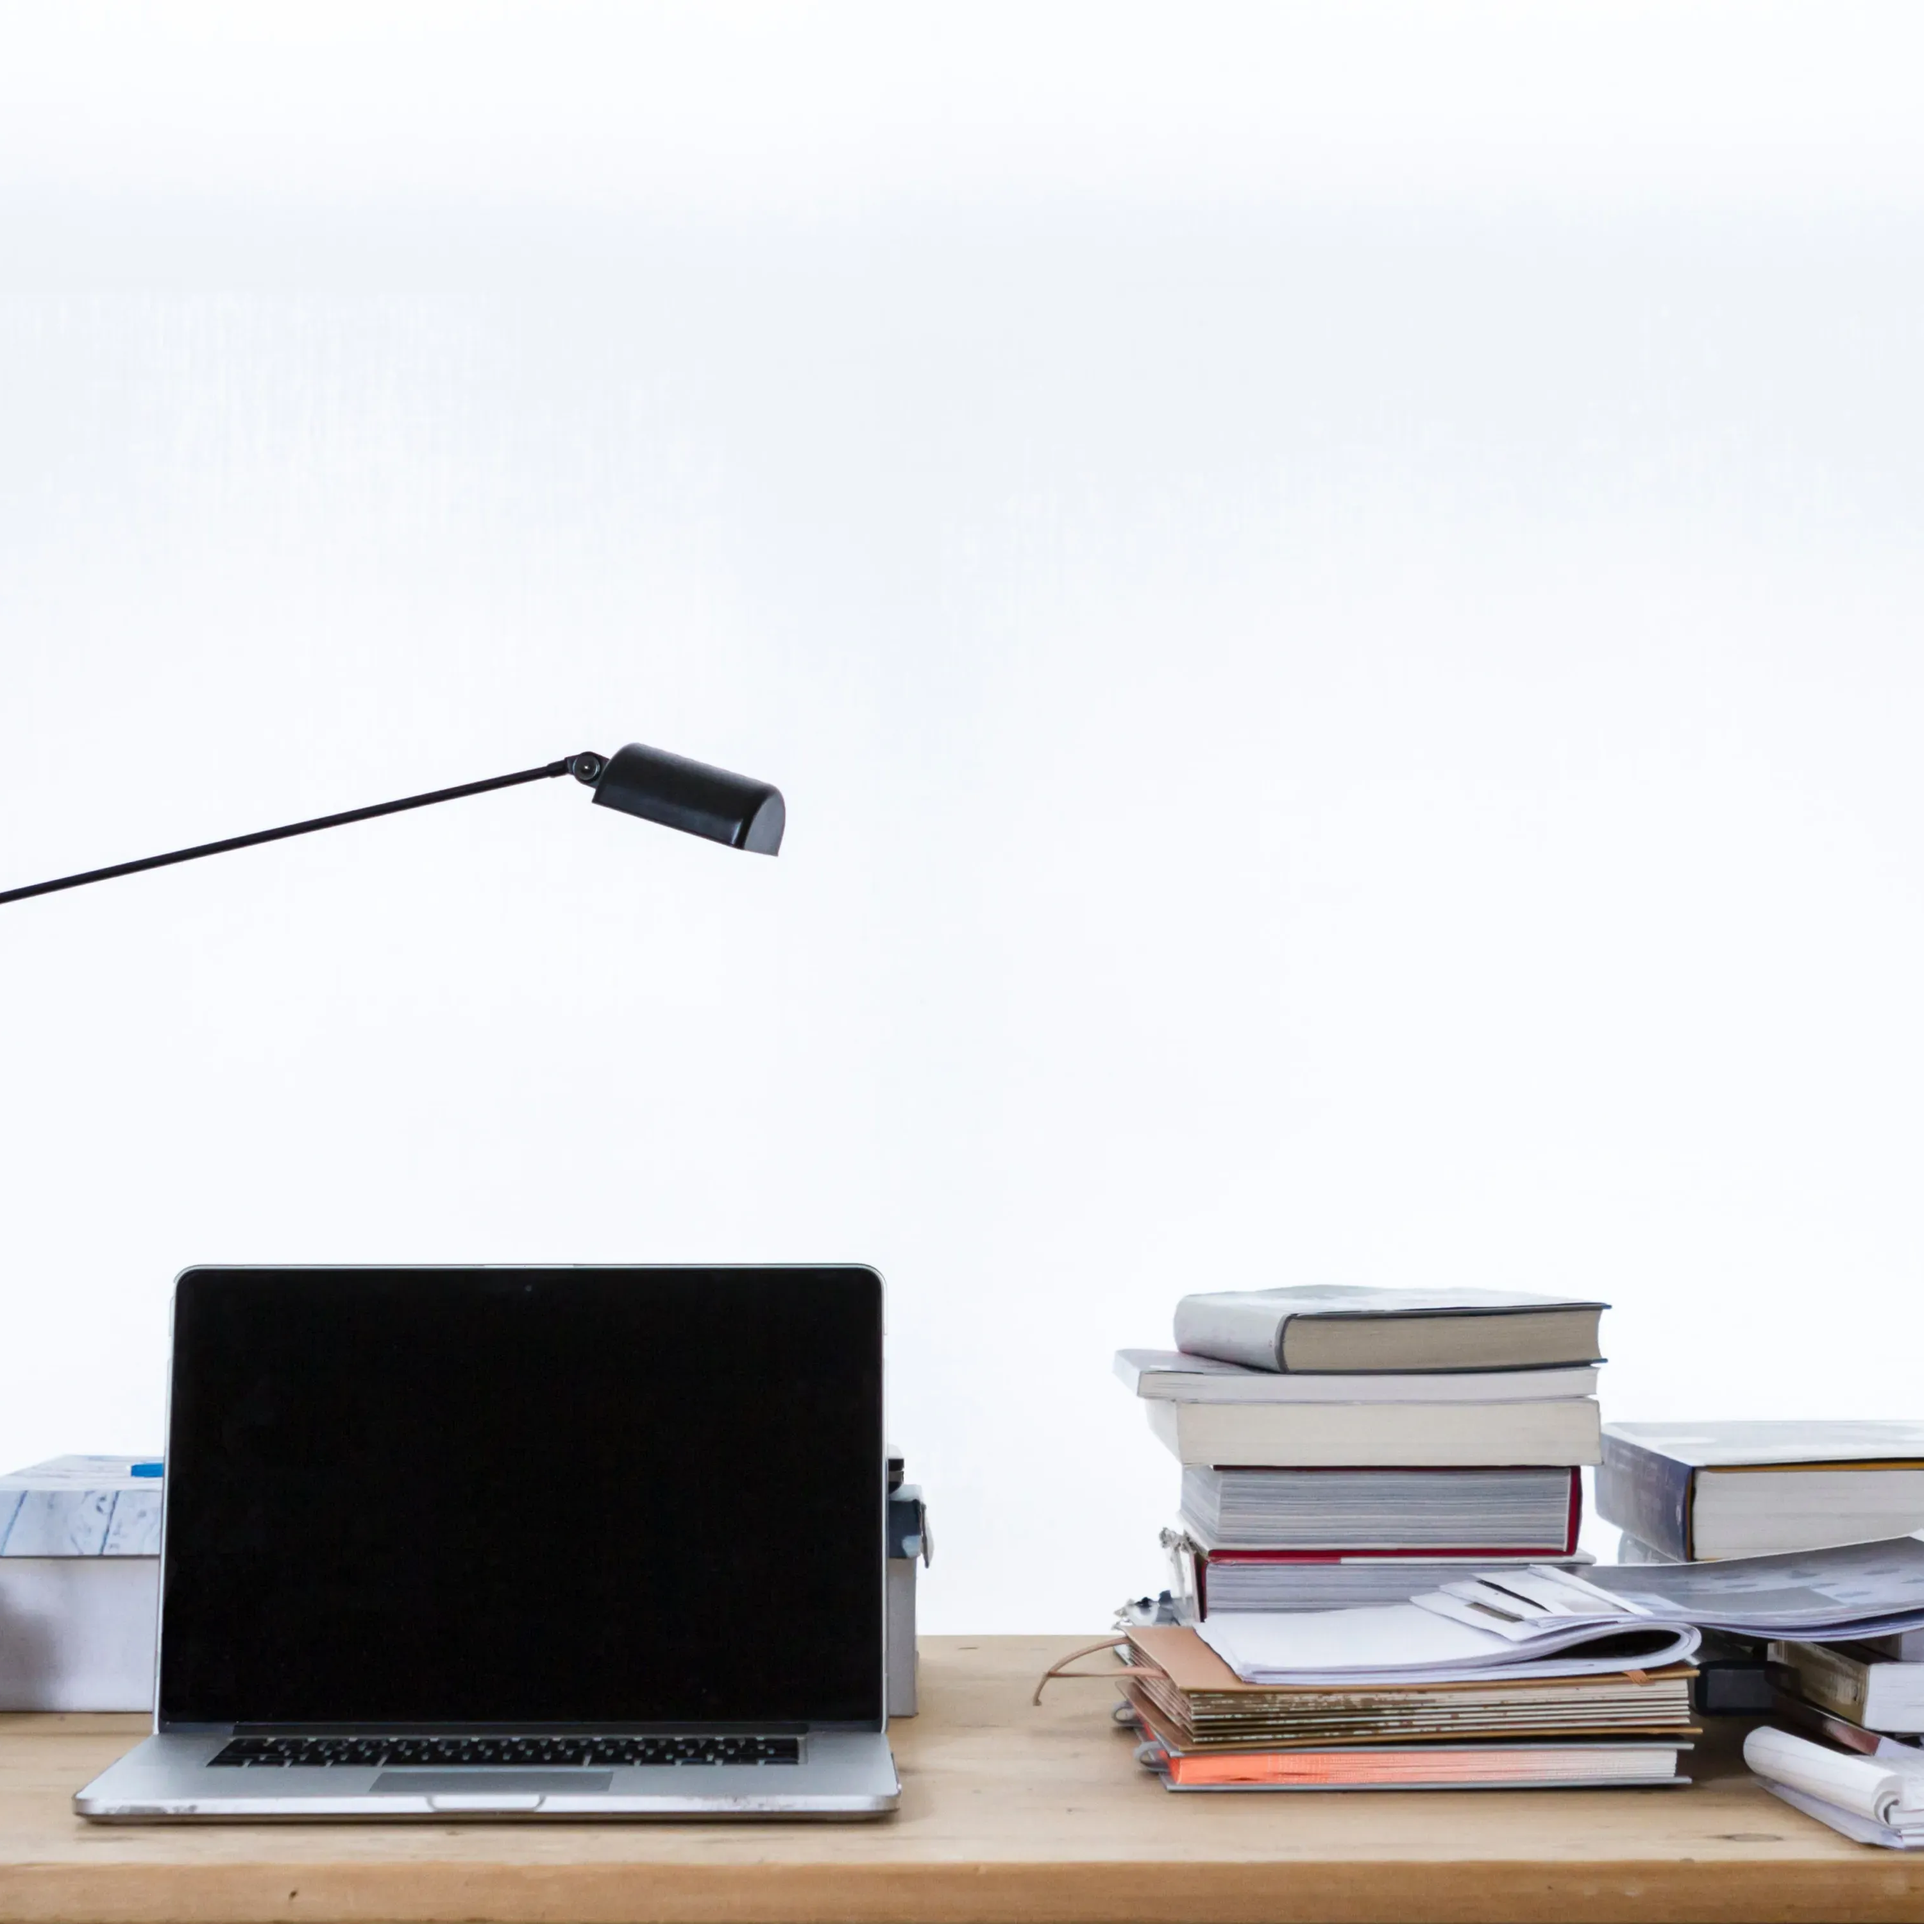
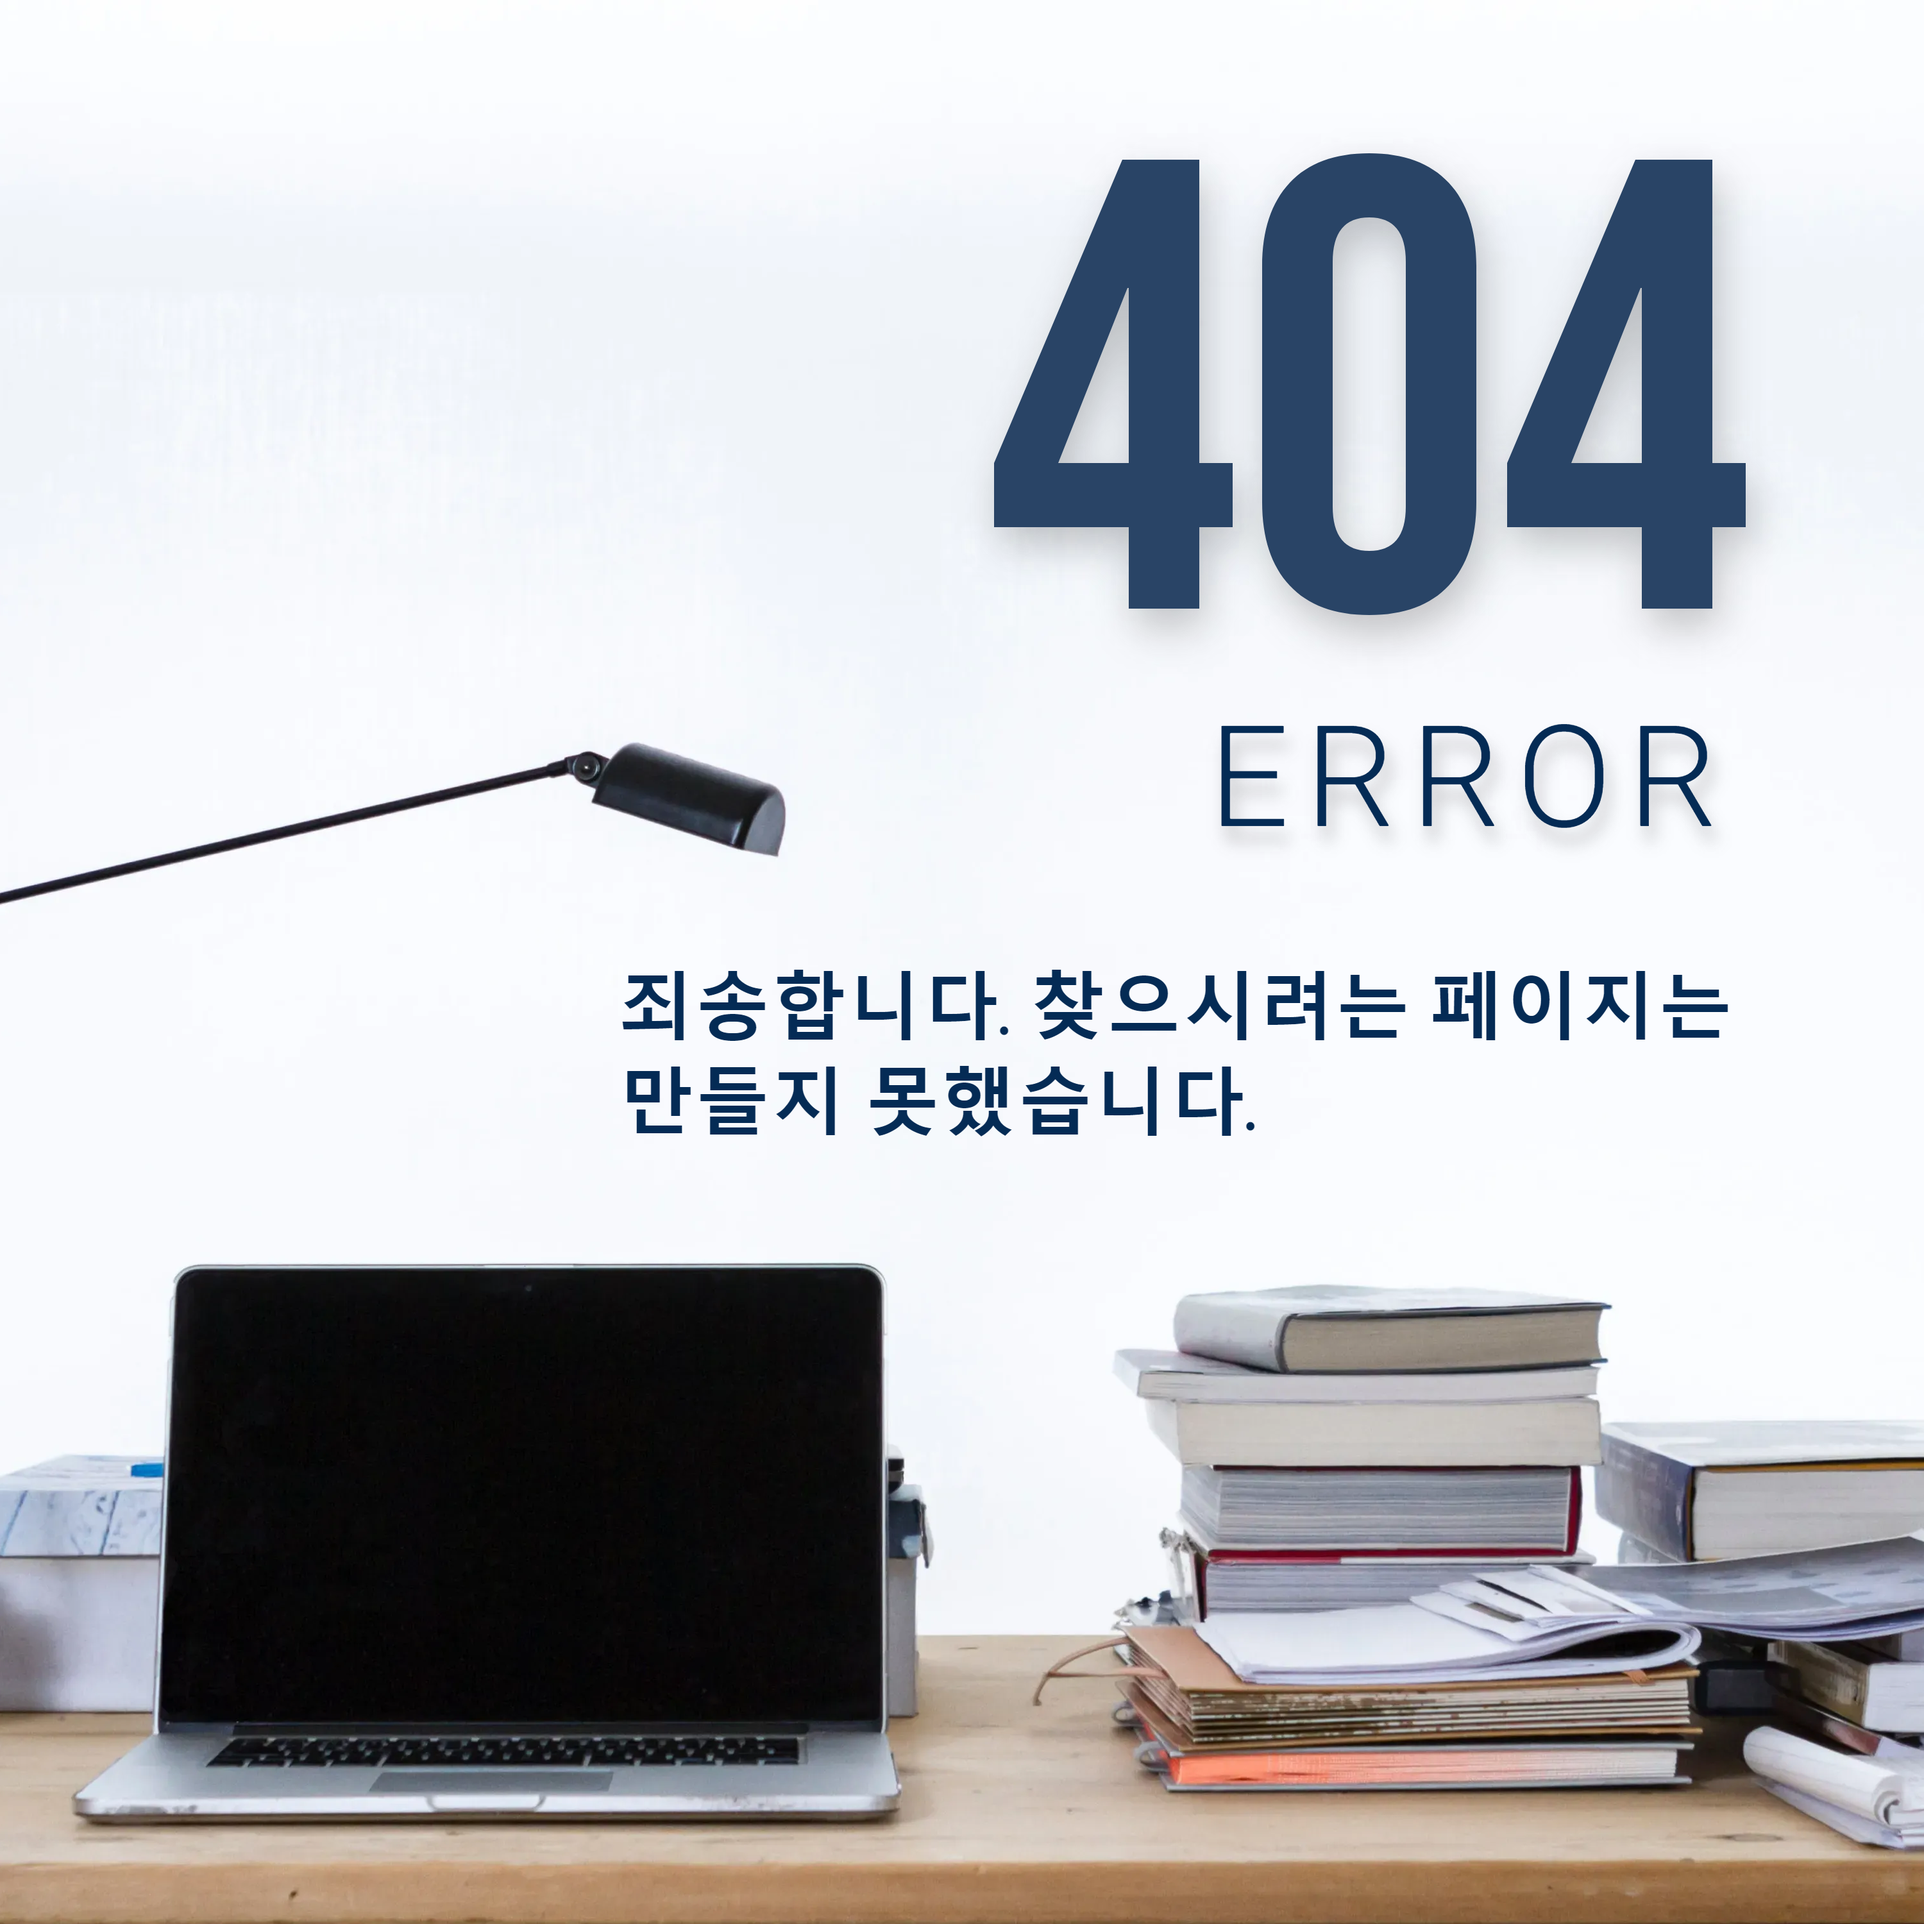
404페이지 수정

diff --git a/assets/css/404page.css b/assets/css/404page.css
@@ -12,7 +12,8 @@ body
 
 img {
   object-fit: fill; 
-
+  width: 100%;
+  height: 100%;
 
 }
 
@@ -24,8 +25,8 @@ img {
 
 .image-caption {
   position: absolute;
-  top: 50%;
-  left: 50%;
+  top: 55%;
+  left: 70%;
   transform: translate(-50%, -50%);
   color: white;
   font-size: 2rem;
@@ -35,4 +36,10 @@ img {
 
 .page__footer{
   margin-top: 0;
+}
+
+i.fas.fa-house{
+  color:black;
+  position: absolute;
+
 }

diff --git a/_pages/404page.md b/_pages/404page.md
@@ -6,9 +6,12 @@ permalink: /404.html
 ---
 
 <link rel="stylesheet" type="text/css" href="{{ site.baseurl }}/assets/css/404page.css">
+<link rel="stylesheet" href="https://cdnjs.cloudflare.com/ajax/libs/font-awesome/6.0.0-beta3/css/all.min.css">
 
 
 <div class="image-wrapper">
   <img src="{{ site.baseurl }}/assets/img/404page.png" alt="404 page not found">
-  <div class="image-caption">Page not found.</div>
+  <div class="image-caption">
+  <i class="fas fa-house"></i>
+  </div>
 </div>
